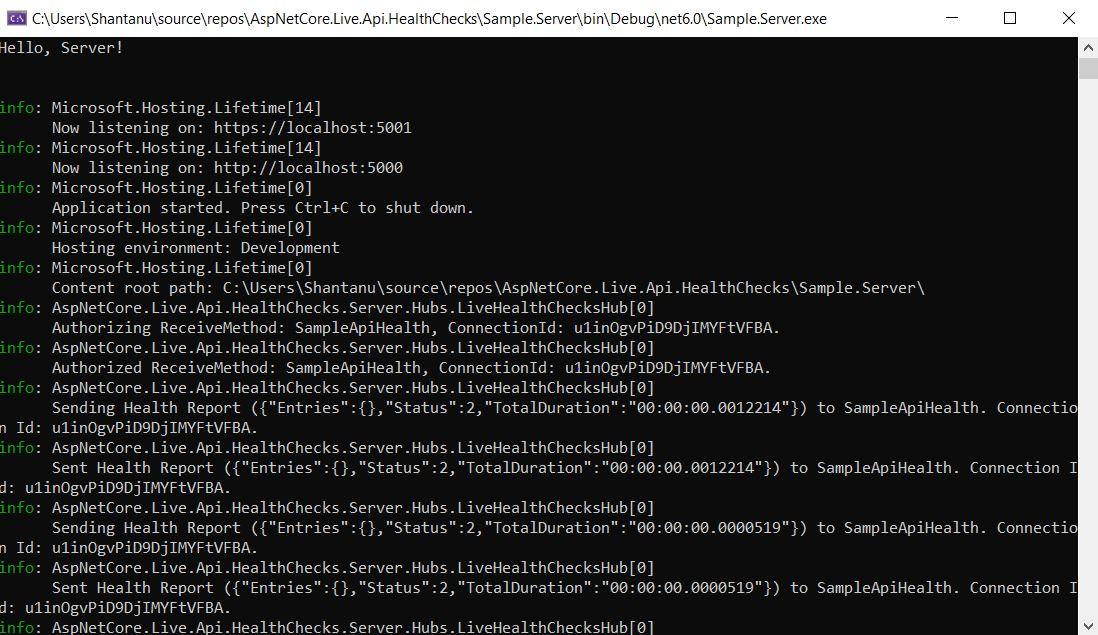
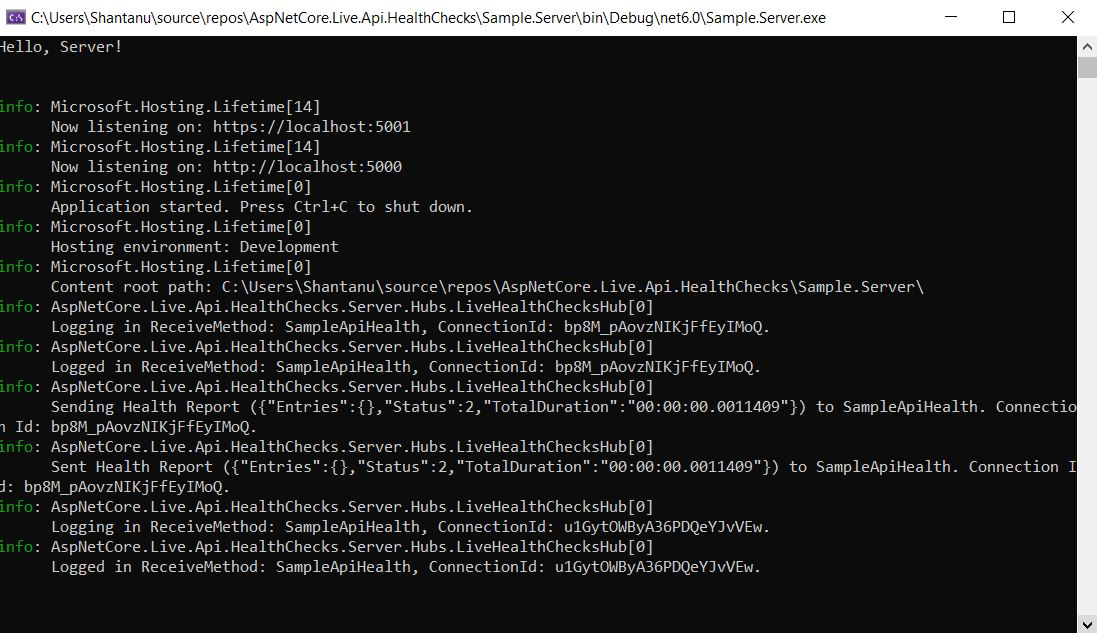
change to remove logged in user based on receive method also.

Changed region(s): [[0.0, 0.1501, 0.9918, 1.0], [0.0, 0.0, 0.7748, 0.09], [0.9608, 0.9605, 1.0, 1.0]]

diff --git a/AspNetCore.Live.Api.HealthChecks.Server/Hubs/LiveHealthChecksHub.cs b/AspNetCore.Live.Api.HealthChecks.Server/Hubs/LiveHealthChecksHub.cs
@@ -34,7 +34,7 @@ namespace AspNetCore.Live.Api.HealthChecks.Server.Hubs
                 throw new ApplicationException("Authorization failed. Please provide SecretKey.");
             }
 
-            _logger?.LogInformation($"Authorizing ReceiveMethod: {receiveMethod}, ConnectionId: {Context.ConnectionId}.");
+            _logger?.LogInformation($"Logging in ReceiveMethod: {receiveMethod}, ConnectionId: {Context.ConnectionId}.");
 
             var client = _settings.Clients?.SingleOrDefault(c => c.ReceiveMethod == receiveMethod && c.SecretKey == secretKey);
 
@@ -49,15 +49,19 @@ namespace AspNetCore.Live.Api.HealthChecks.Server.Hubs
             {
                 lock(this)
                 {
-                    _loggedInUsers.Add(new LoggedInUser
+                    var loggedInUser = new LoggedInUser
                     {
                         ReceiveMethod = receiveMethod,
                         ConnectionId = Context.ConnectionId
-                    });
-                }                
-            }            
+                    };                    
 
-            _logger?.LogInformation($"Authorized ReceiveMethod: {receiveMethod}, ConnectionId: {Context.ConnectionId}.");            
+                    Context.Items.Add(Context.ConnectionId, receiveMethod);
+
+                    _loggedInUsers.Add(loggedInUser);
+
+                    _logger?.LogInformation($"Logged in ReceiveMethod: {receiveMethod}, ConnectionId: {Context.ConnectionId}.");
+                }                
+            }                        
 
             await base.OnConnectedAsync();
         }
@@ -75,7 +79,8 @@ namespace AspNetCore.Live.Api.HealthChecks.Server.Hubs
                 {
                     _logger?.LogInformation($"Logging out ConnectionId: {Context.ConnectionId}.");
 
-                    _loggedInUsers.RemoveAll(u => u.ConnectionId == Context.ConnectionId);
+                    _loggedInUsers.RemoveAll(u => u.ReceiveMethod == Context.Items[Context.ConnectionId]?.ToString() 
+                                                    && u.ConnectionId == Context.ConnectionId);
 
                     _logger?.LogInformation($"Logged out ConnectionId: {Context.ConnectionId}.");
                 }                
